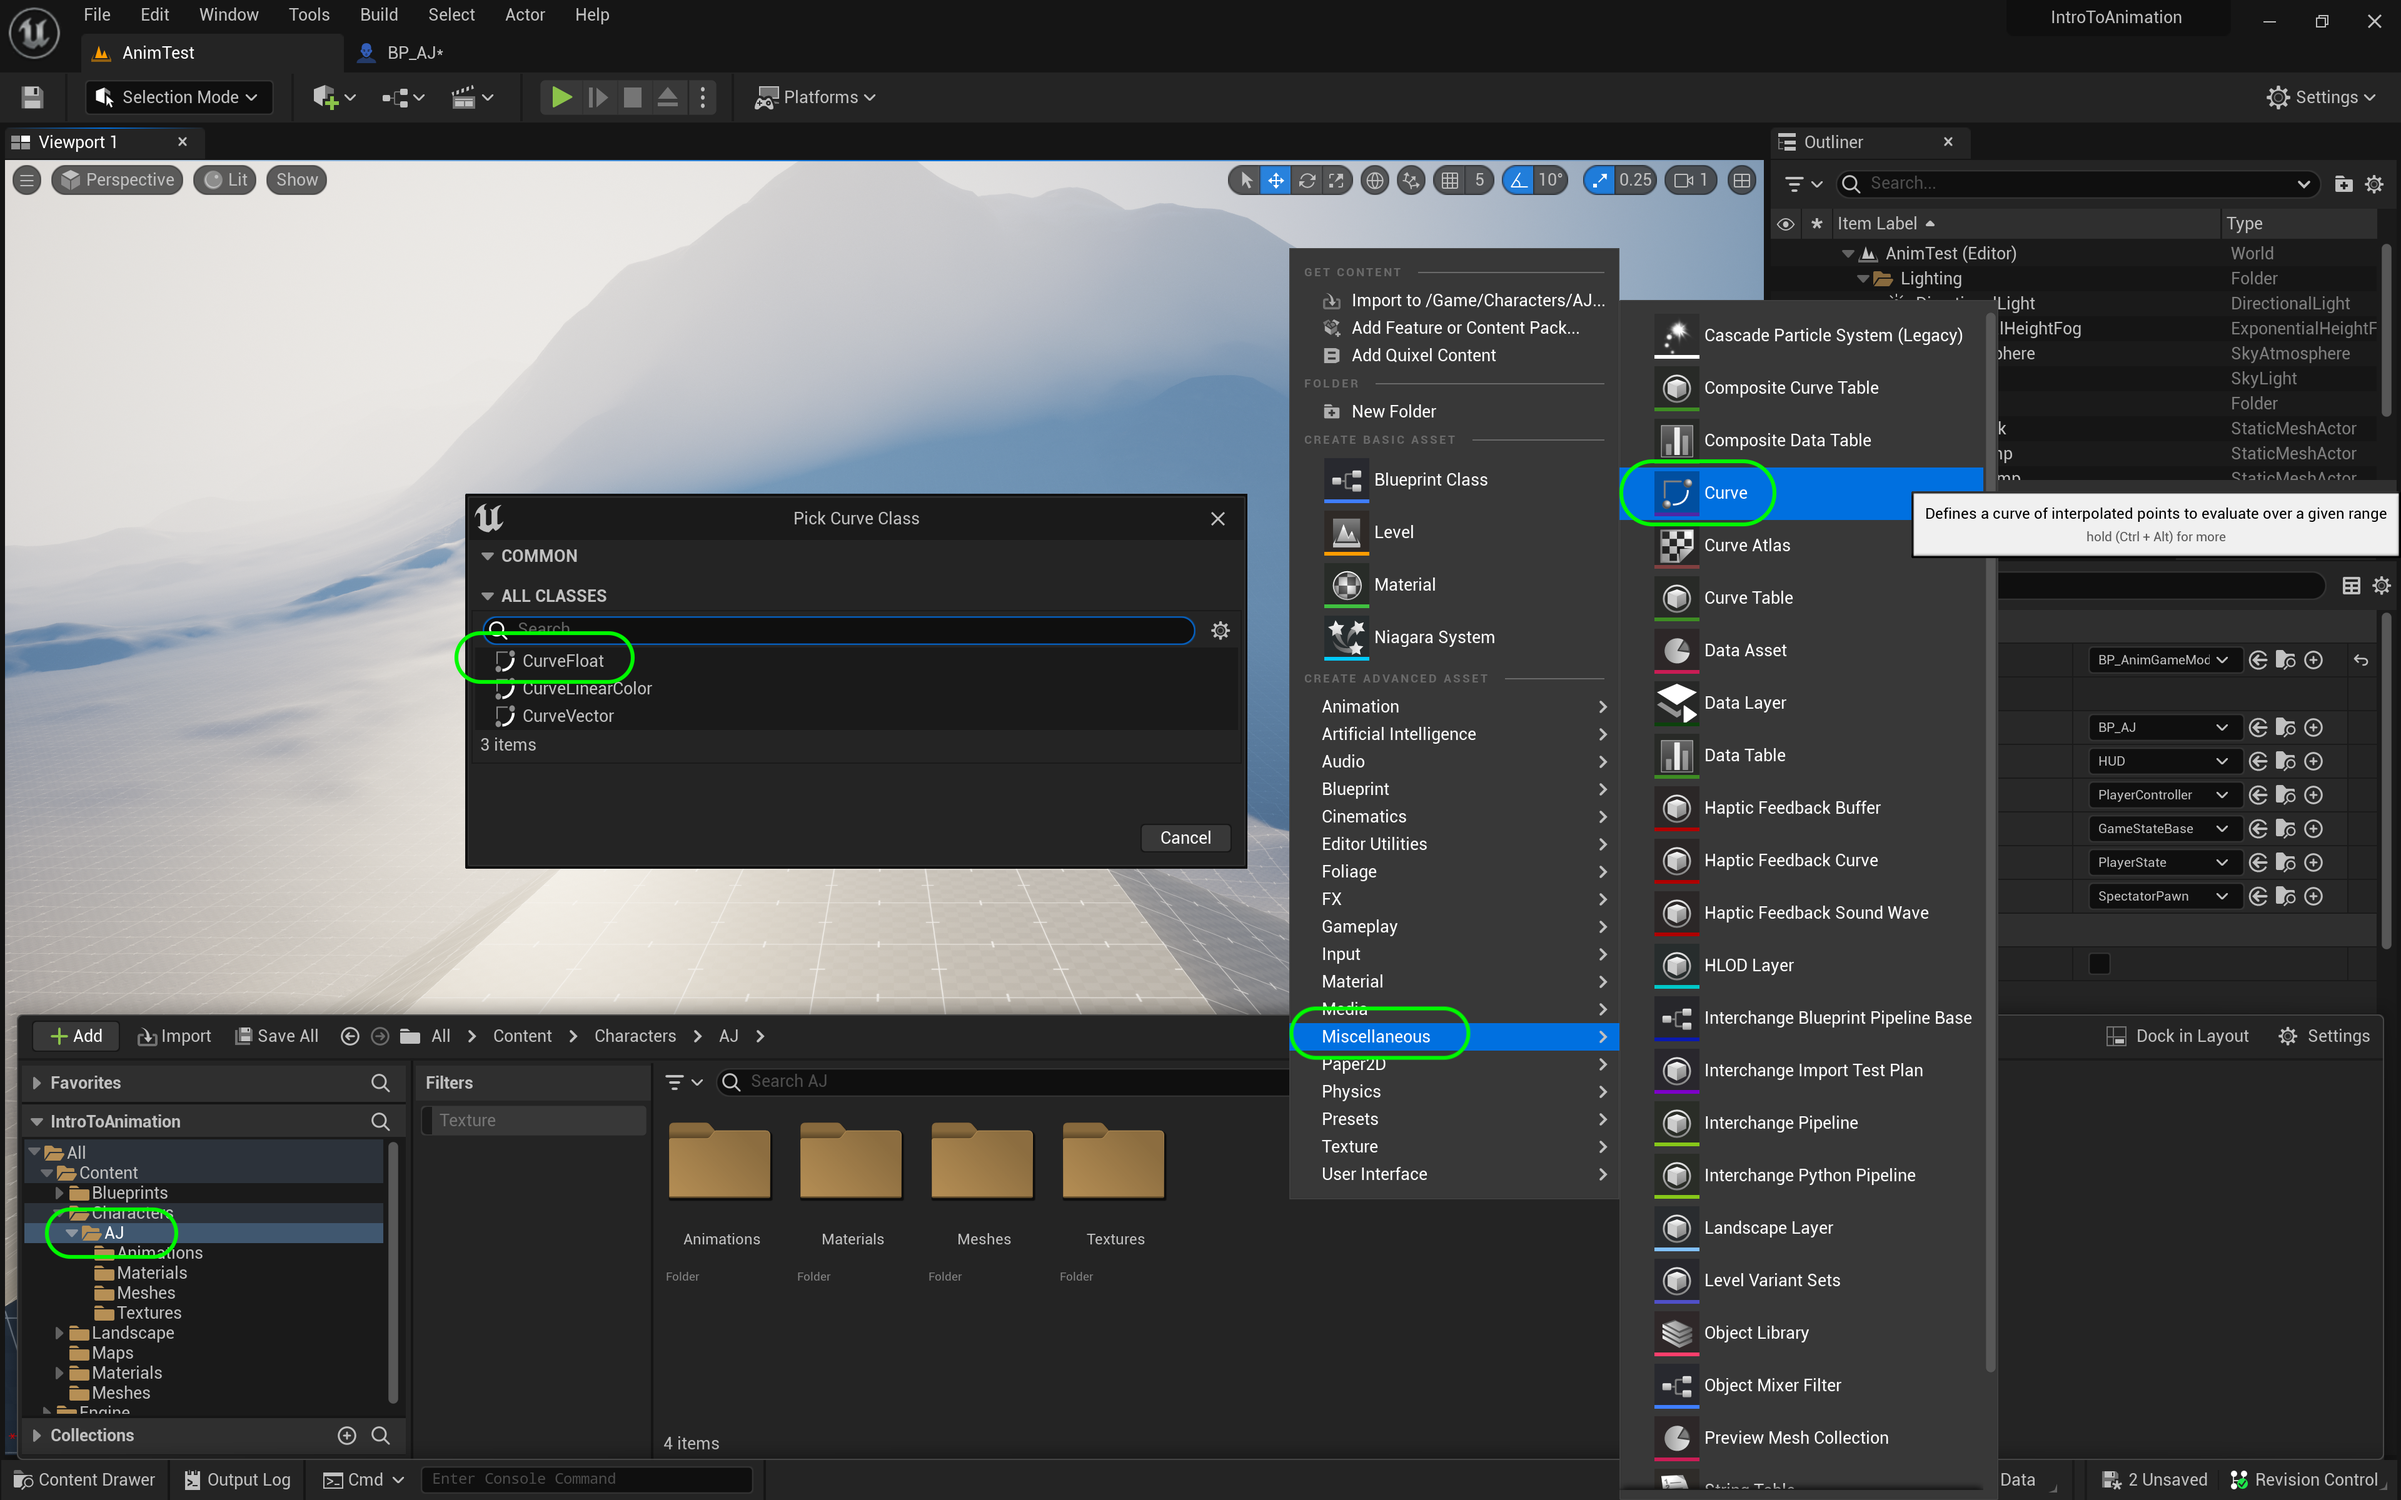
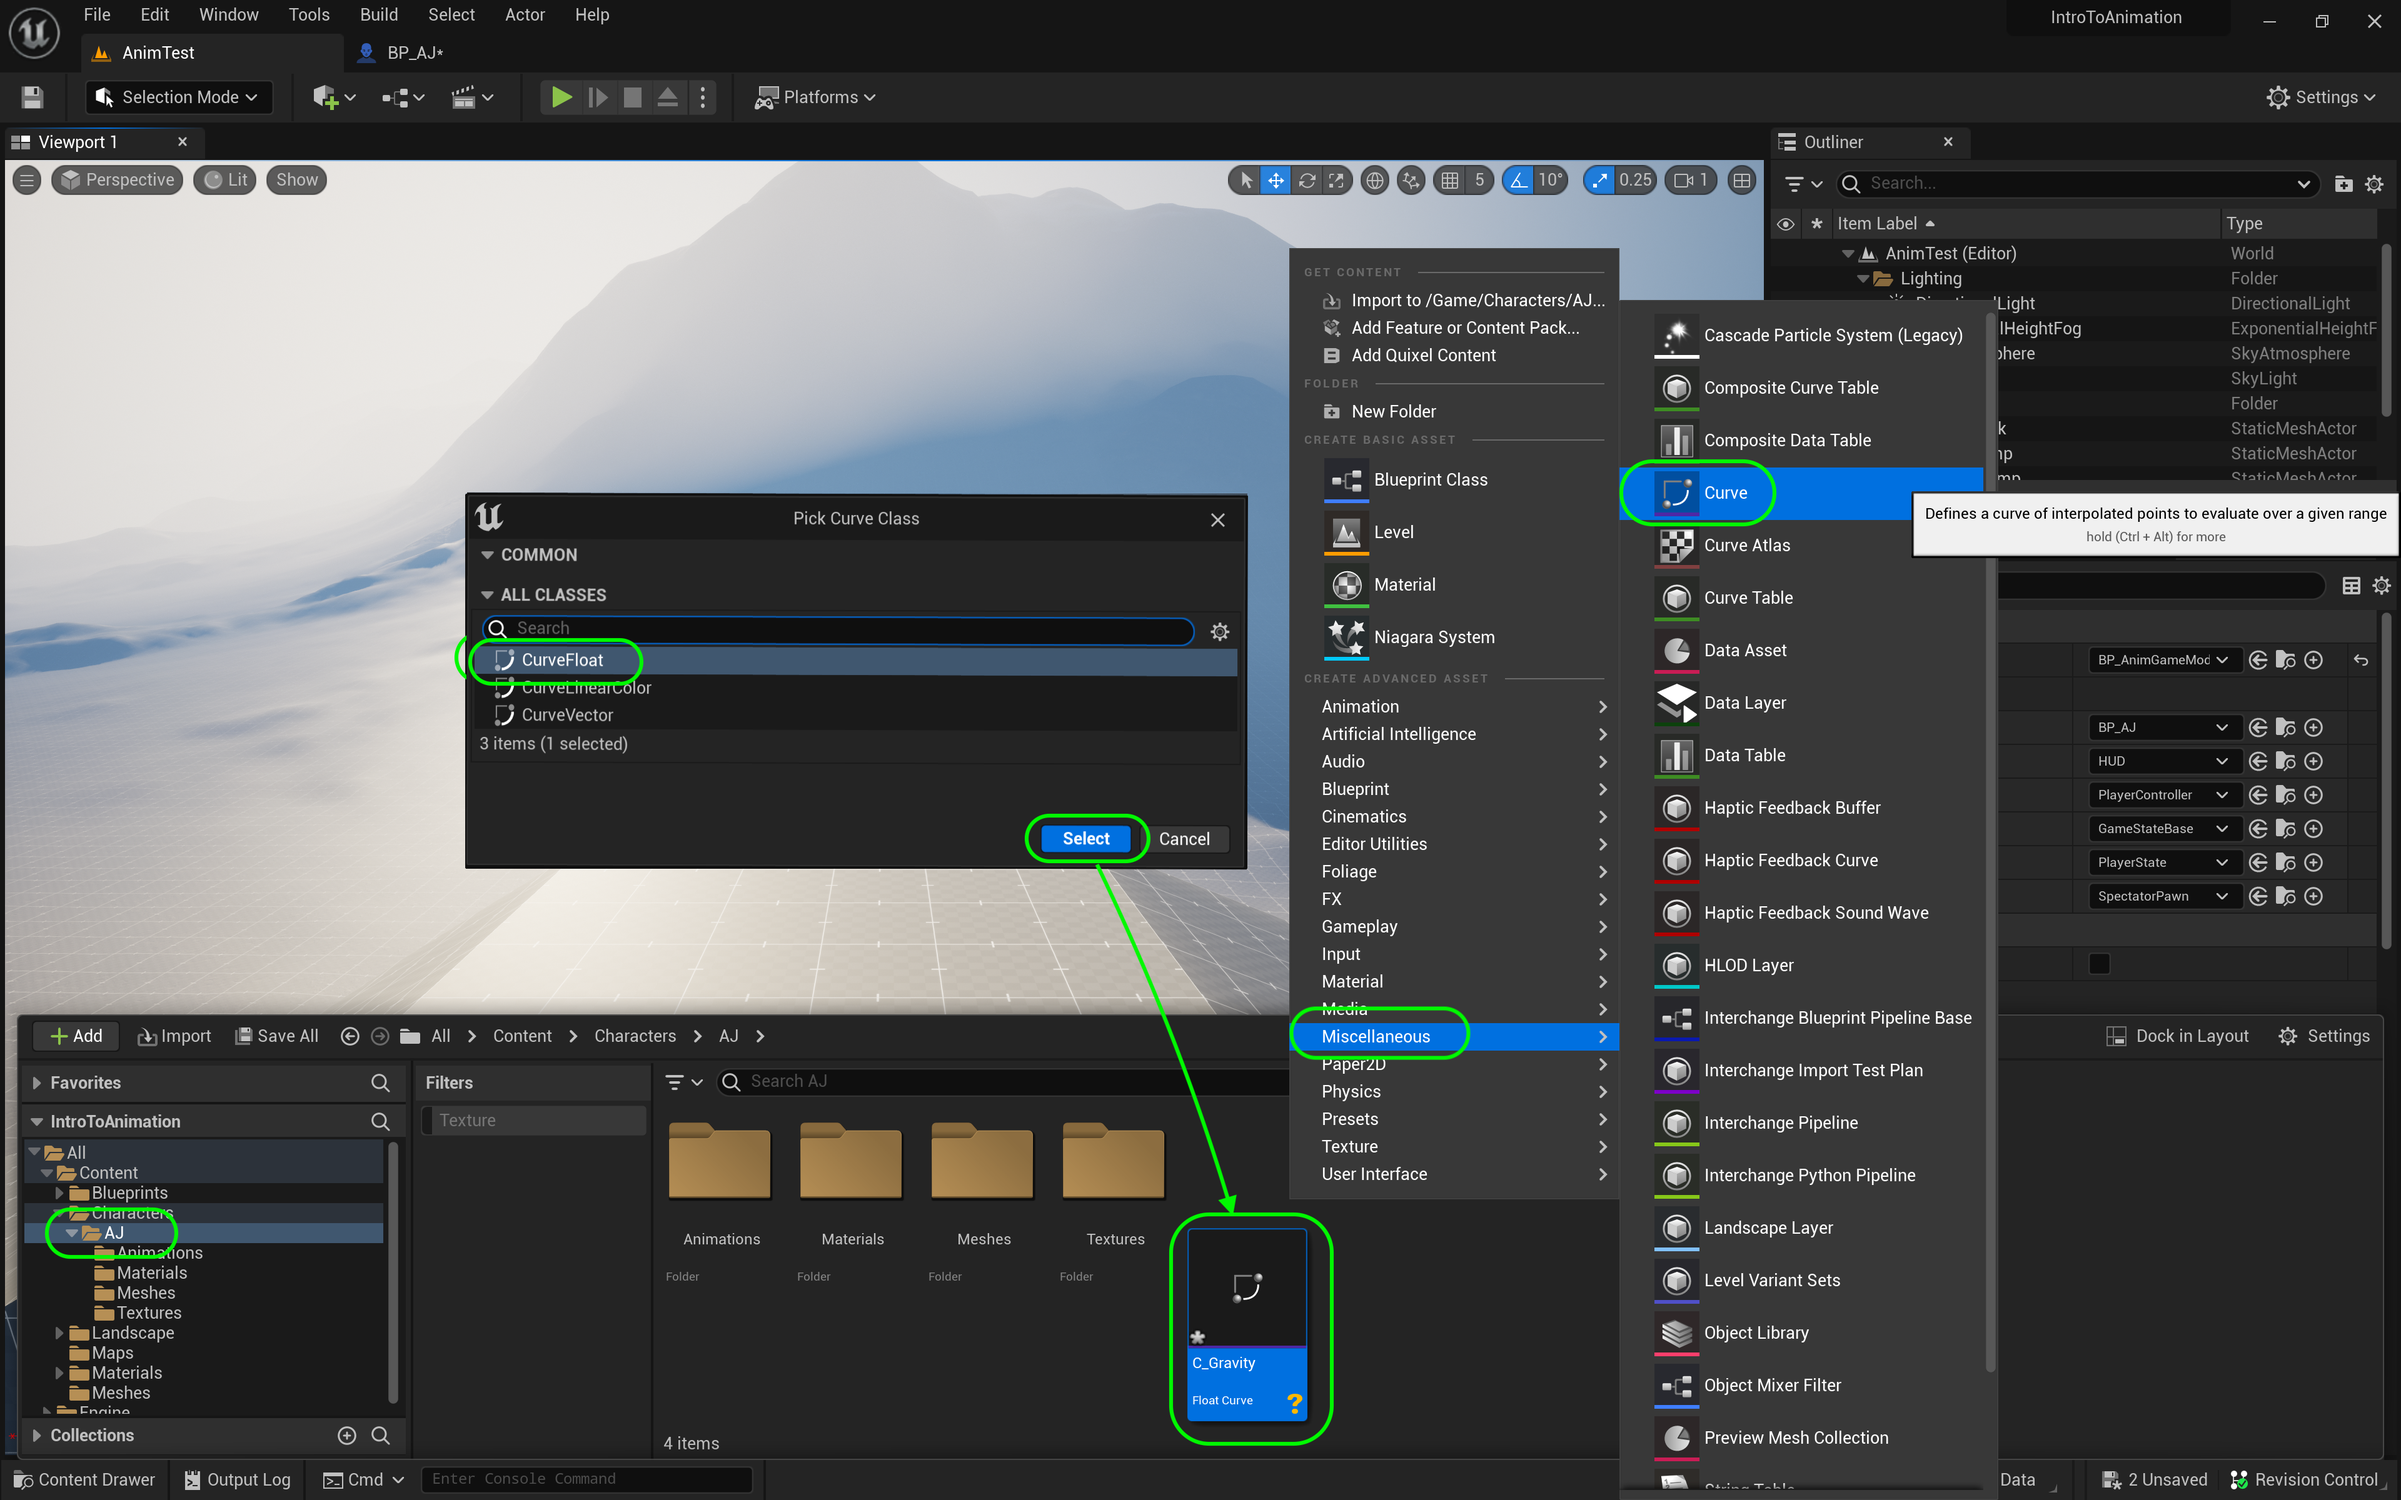
Update to Unreal 5.2

diff --git a/ramps/README.md b/ramps/README.md
@@ -164,7 +164,7 @@ https://github.com/maubanel/UE5-Animations/assets/5504953/226e7329-8ec4-429f-a62
 
 ##### `Step 19.`\|`ITA`| :large_blue_diamond: :small_orange_diamond: :small_blue_diamond: :small_blue_diamond: :small_blue_diamond: :small_blue_diamond:
 
-Select the **AJ** folder and right click and select a **Miscellatneous | Curve** data object.  Click on **Curve Float**. 
+Select the **AJ** folder and right click and select a **Miscellatneous | Curve** data object.  Click on **Curve Float**.  Call it `C_Gravity`. This is where we will store a curve that has different speeds based on the angle of the ground.
 
 ![add float > float node](images/curveFloat.png)
 
@@ -172,18 +172,16 @@ Select the **AJ** folder and right click and select a **Miscellatneous | Curve**
 
 ##### `Step 20.`\|`ITA`| :large_blue_diamond: :large_blue_diamond:
 
- Call it `C_Gravity`. This is where we will store a curve that has different speeds based on the angle of the ground.
+*Right click* and add 4 keys to the graph.
 
-
+![add branch and connect to Then 1 of sequence node](images/4Keys.png)
 
 
 ![](../images/line2.png)
 
 ##### `Step 21.`\|`ITA`| :large_blue_diamond: :large_blue_diamond: :small_blue_diamond:
 
-*Right click* and add 4 keys to the graph.
 
-![add branch and connect to Then 1 of sequence node](images/4Keys.png)
 
 ![](../images/line2.png)
 
